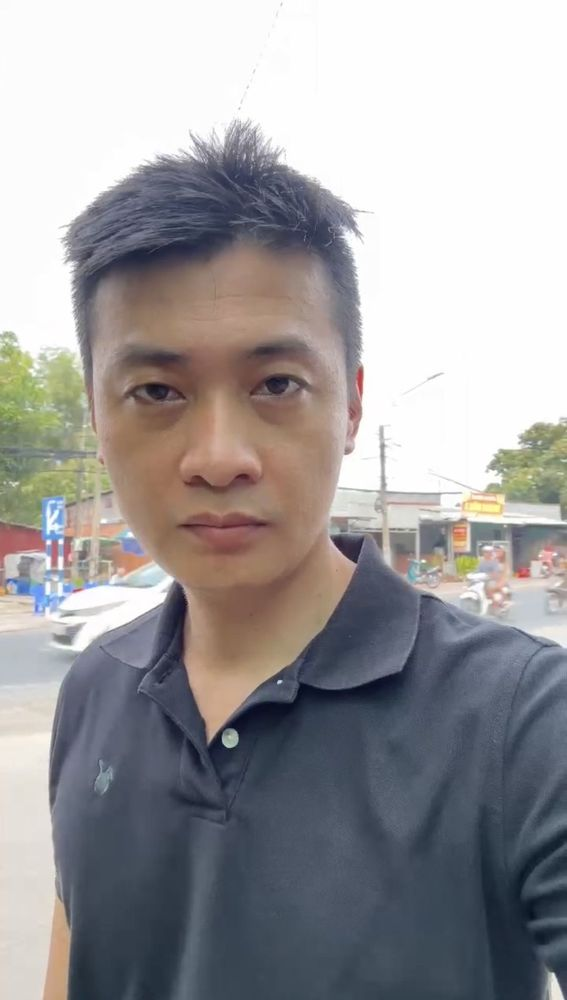
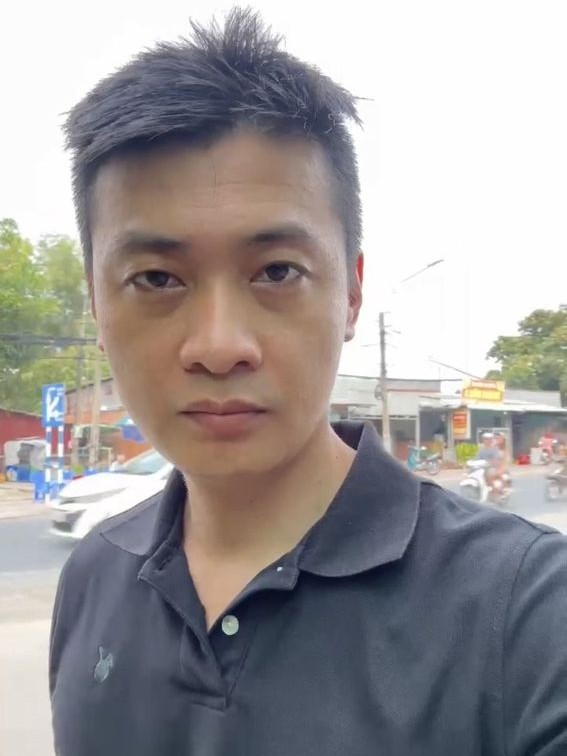
Add files via upload

diff --git a/index.html b/index.html
@@ -177,36 +177,36 @@
       </div>
     </div>
 
-    <p class="reveal" style="color:var(--text-2);margin-bottom:2rem;line-height:2;font-size:1rem;">
+    <p class="reveal" style="color:var(--text-2);margin-bottom:2rem;line-height:2;font-size:1rem;text-align:justify;">
       Có một giai đoạn trong cuộc đời tôi, tôi không muốn kể lại, nhưng tôi phải kể. Vì đây không phải câu chuyện của riêng tôi. Đây là câu chuyện của hàng nghìn người đàn ông đang đọc những dòng này.
     </p>
 
     <div class="card reveal" style="padding:1.75rem;margin-bottom:1.5rem;">
       <p style="font-size:0.7rem;font-weight:700;letter-spacing:0.18em;text-transform:uppercase;color:var(--amber);margin-bottom:0.75rem;">TRƯỚC</p>
-      <p style="color:var(--text-2);line-height:1.9;">Nhìn từ bên ngoài, tôi không có gì để than vãn. Công việc ổn định. Gia đình bình thường. Nhưng bên trong, có một thứ gì đó đang chết dần mỗi ngày. Tôi thức dậy mỗi sáng mà không biết mình sống vì điều gì. Lướt điện thoại 30 phút trước khi ra khỏi giường. Làm việc theo quán tính. Tối về nằm xuống và tự hỏi: <em style="color:var(--brown);">Hôm nay mình đã sống hay chỉ đang tồn tại?</em></p>
+      <p style="color:var(--text-2);line-height:1.9;text-align:justify;">Nhìn từ bên ngoài, tôi không có gì để than vãn. Công việc ổn định. Gia đình bình thường. Nhưng bên trong, có một thứ gì đó đang chết dần mỗi ngày. Tôi thức dậy mỗi sáng mà không biết mình sống vì điều gì. Lướt điện thoại 30 phút trước khi ra khỏi giường. Làm việc theo quán tính. Tối về nằm xuống và tự hỏi: <em style="color:var(--brown);">Hôm nay mình đã sống hay chỉ đang tồn tại?</em></p>
     </div>
 
     <div class="card reveal" style="padding:1.75rem;margin-bottom:1.5rem;">
       <p style="font-size:0.7rem;font-weight:700;letter-spacing:0.18em;text-transform:uppercase;color:var(--amber);margin-bottom:0.75rem;">ĐẤU TRANH</p>
-      <p style="color:var(--text-2);line-height:1.9;margin-bottom:1rem;">Rồi biến cố ập đến. Một khoản đầu tư thất bại, không phải vài triệu. Đủ để tôi mất ngủ suốt 6 tháng. Đủ để tôi nhìn vào gương và không nhận ra người đứng đó.</p>
-      <p style="color:var(--text-2);line-height:1.9;">Tôi đã làm đúng những gì ai cũng làm sau thất bại: Tìm cách quên. Ăn ít hơn. Ngủ ít hơn. Lướt mạng xã hội nhiều hơn. Và mỗi ngày trôi qua, tôi càng chìm sâu hơn vào vũng bùn của sự vô nghĩa. Đêm nào tôi cũng tự nhủ: <em style="color:var(--brown);">"Ngày mai mình sẽ thay đổi."</em> Nhưng ngày mai đến, tôi lại là người cũ, chỉ già hơn một ngày và tệ hơn vì mặc cảm tội lỗi.</p>
+      <p style="color:var(--text-2);line-height:1.9;text-align:justify;margin-bottom:1rem;">Rồi biến cố ập đến. Một khoản đầu tư thất bại, không phải vài triệu. Đủ để tôi mất ngủ suốt 6 tháng. Đủ để tôi nhìn vào gương và không nhận ra người đứng đó.</p>
+      <p style="color:var(--text-2);line-height:1.9;text-align:justify;">Tôi đã làm đúng những gì ai cũng làm sau thất bại: Tìm cách quên. Ăn ít hơn. Ngủ ít hơn. Lướt mạng xã hội nhiều hơn. Và mỗi ngày trôi qua, tôi càng chìm sâu hơn vào vũng bùn của sự vô nghĩa. Đêm nào tôi cũng tự nhủ: <em style="color:var(--brown);">"Ngày mai mình sẽ thay đổi."</em> Nhưng ngày mai đến, tôi lại là người cũ, chỉ già hơn một ngày và tệ hơn vì mặc cảm tội lỗi.</p>
     </div>
 
     <div class="card reveal" style="padding:1.75rem;margin-bottom:1.5rem;border-left:4px solid var(--rust);">
       <p style="font-size:0.7rem;font-weight:700;letter-spacing:0.18em;text-transform:uppercase;color:var(--amber);margin-bottom:0.75rem;">KHÁM PHÁ</p>
-      <p style="color:var(--text-2);line-height:1.9;margin-bottom:1.25rem;">Khoảnh khắc bước ngoặt không đến từ một cuốn sách hay một hội thảo. Nó đến vào lúc 2 giờ sáng, khi tôi ngồi một mình trong bóng tối và nhận ra một sự thật đơn giản đến đau lòng:</p>
+      <p style="color:var(--text-2);line-height:1.9;text-align:justify;margin-bottom:1.25rem;">Khoảnh khắc bước ngoặt không đến từ một cuốn sách hay một hội thảo. Nó đến vào lúc 2 giờ sáng, khi tôi ngồi một mình trong bóng tối và nhận ra một sự thật đơn giản đến đau lòng:</p>
       <p class="serif" style="font-size:1.1rem;font-style:italic;color:var(--brown);border-left:2px solid var(--amber);padding-left:1rem;line-height:1.7;">"Không ai đến cứu mình cả. Người duy nhất có thể kéo mình ra khỏi đây, đó chính là mình."</p>
-      <p style="color:var(--text-2);line-height:1.9;margin-top:1rem;">Tôi không bắt đầu bằng một kế hoạch hoành tráng. Tôi bắt đầu bằng thứ nhỏ nhất có thể: Ngủ đúng giờ. Dậy đúng giờ. Tập thể dục 20 phút mỗi ngày, chỉ vậy thôi. Nhưng điều kỳ lạ xảy ra, khi bạn giữ được một cam kết nhỏ với bản thân, bạn bắt đầu tin rằng mình có thể giữ được cam kết lớn hơn.</p>
+      <p style="color:var(--text-2);line-height:1.9;text-align:justify;margin-top:1rem;">Tôi không bắt đầu bằng một kế hoạch hoành tráng. Tôi bắt đầu bằng thứ nhỏ nhất có thể: Ngủ đúng giờ. Dậy đúng giờ. Tập thể dục 20 phút mỗi ngày, chỉ vậy thôi. Nhưng điều kỳ lạ xảy ra, khi bạn giữ được một cam kết nhỏ với bản thân, bạn bắt đầu tin rằng mình có thể giữ được cam kết lớn hơn.</p>
       <p style="font-weight:700;color:var(--brown);margin-top:1rem;">Kỷ luật không phải là nhà tù. Kỷ luật là thứ duy nhất có thể giải phóng bạn.</p>
     </div>
 
     <div class="card reveal" style="padding:1.75rem;margin-bottom:1.5rem;background:linear-gradient(135deg,#FFF8EE,#FFF3E0);">
       <p style="font-size:0.7rem;font-weight:700;letter-spacing:0.18em;text-transform:uppercase;color:var(--amber);margin-bottom:0.75rem;">SAU</p>
-      <p style="color:var(--text-2);line-height:1.9;margin-bottom:1rem;">90 ngày sau, tôi không phải người khác. Tôi vẫn là tôi, nhưng là phiên bản thức tỉnh của chính mình. Tôi có lại năng lượng để làm việc với sự tập trung. Tôi ngủ đủ giấc. Tôi nhìn vào gương và thấy một người đang đứng dậy chứ không phải ngã xuống.</p>
-      <p style="color:var(--text-2);line-height:1.9;">Và điều quan trọng hơn: Tôi biết mình muốn gì. Không phải giàu có tưởng tượng. Không phải thành công mơ hồ. Mà là sự tự do cụ thể: Tự do về thời gian, về tinh thần, về lựa chọn.</p>
+      <p style="color:var(--text-2);line-height:1.9;text-align:justify;margin-bottom:1rem;">90 ngày sau, tôi không phải người khác. Tôi vẫn là tôi, nhưng là phiên bản thức tỉnh của chính mình. Tôi có lại năng lượng để làm việc với sự tập trung. Tôi ngủ đủ giấc. Tôi nhìn vào gương và thấy một người đang đứng dậy chứ không phải ngã xuống.</p>
+      <p style="color:var(--text-2);line-height:1.9;text-align:justify;">Và điều quan trọng hơn: Tôi biết mình muốn gì. Không phải giàu có tưởng tượng. Không phải thành công mơ hồ. Mà là sự tự do cụ thể: Tự do về thời gian, về tinh thần, về lựa chọn.</p>
     </div>
 
-    <p class="reveal" style="color:var(--text-3);font-style:italic;border-left:3px solid var(--cream-3);padding-left:1.25rem;line-height:1.9;">Tôi tạo ra Kỷ Luật Bản Năng không phải vì tôi là chuyên gia. Mà vì tôi là người đã đi con đường này và tôi không muốn bạn phải mò mẫm một mình trong bóng tối như tôi từng làm. Con đường tồn tại. Và nó không cần bạn phải hoàn hảo để bước đi trên đó.</p>
+    <p class="reveal" style="color:var(--text-3);font-style:italic;border-left:3px solid var(--cream-3);padding-left:1.25rem;line-height:1.9;text-align:justify;">Tôi tạo ra Kỷ Luật Bản Năng không phải vì tôi là chuyên gia. Mà vì tôi là người đã đi con đường này và tôi không muốn bạn phải mò mẫm một mình trong bóng tối như tôi từng làm. Con đường tồn tại. Và nó không cần bạn phải hoàn hảo để bước đi trên đó.</p>
   </div>
 </section>
 
@@ -289,13 +289,13 @@
       <p style="font-size:0.78rem;font-weight:600;color:var(--text-3);text-align:center;margin-bottom:0.85rem;letter-spacing:0.08em;text-transform:uppercase;">Trước → Sau</p>
       <div style="display:grid;grid-template-columns:1fr 1fr;gap:1rem;">
         <div style="border-radius:12px;overflow:hidden;position:relative;">
-          <img loading="lazy" decoding="async" src="photo-before.jpg" alt="Trước · 2025 mất phương hướng" style="width:100%;aspect-ratio:3/4;object-fit:cover;object-position:center top;display:block;" />
+          <img loading="lazy" decoding="async" src="photo-before.jpg" alt="Trước · 2025 mất phương hướng" style="width:100%;aspect-ratio:3/4;object-fit:cover;object-position:center;display:block;" />
           <div style="position:absolute;bottom:0;left:0;right:0;background:linear-gradient(transparent,rgba(44,26,14,0.85));padding:0.75rem;text-align:center;">
             <span style="color:#fff;font-size:0.72rem;font-weight:700;letter-spacing:0.08em;">2025 · MẤT PHƯƠNG HƯỚNG</span>
           </div>
         </div>
         <div style="border-radius:12px;overflow:hidden;position:relative;border:2px solid var(--amber);">
-          <img loading="lazy" decoding="async" src="photo-after.jpg" alt="Sau · 2026 hành trình mới" style="width:100%;aspect-ratio:3/4;object-fit:cover;object-position:center top;display:block;" />
+          <img loading="lazy" decoding="async" src="photo-after.jpg" alt="Sau · 2026 hành trình mới" style="width:100%;aspect-ratio:3/4;object-fit:cover;object-position:center;display:block;" />
           <div style="position:absolute;bottom:0;left:0;right:0;background:linear-gradient(transparent,rgba(176,90,42,0.9));padding:0.75rem;text-align:center;">
             <span style="color:#fff;font-size:0.72rem;font-weight:700;letter-spacing:0.08em;">2026 · HÀNH TRÌNH MỚI ✓</span>
           </div>
@@ -564,7 +564,7 @@
     </div>
 
     <div class="reveal" style="background:rgba(196,123,42,0.1);border:1px solid rgba(196,123,42,0.3);border-radius:12px;padding:2rem;">
-      <p style="color:#D9C8B0;line-height:1.9;margin-bottom:1rem;">Và đây là điều mình muốn bạn hiểu: <strong style="color:#FAF6F0;">Bạn không lười. Bạn không yếu. Bạn chỉ đang thiếu ba thứ mà không ai dạy bạn:</strong></p>
+      <p style="color:#D9C8B0;line-height:1.9;text-align:justify;margin-bottom:1rem;">Và đây là điều mình muốn bạn hiểu: <strong style="color:#FAF6F0;">Bạn không lười. Bạn không yếu. Bạn chỉ đang thiếu ba thứ mà không ai dạy bạn:</strong></p>
       <ul style="list-style:none;display:flex;flex-direction:column;gap:0.75rem;">
         <li style="color:#C9B8A0;font-size:0.92rem;padding-left:1.25rem;position:relative;line-height:1.7;"><span style="position:absolute;left:0;color:var(--amber-l);">1.</span>Một hệ thống phù hợp với cách não và cơ thể bạn hoạt động · không phải công thức copy từ người khác</li>
         <li style="color:#C9B8A0;font-size:0.92rem;padding-left:1.25rem;position:relative;line-height:1.7;"><span style="position:absolute;left:0;color:var(--amber-l);">2.</span>Một lộ trình rõ ràng để bạn biết ngày mai mình cần làm gì, không phải chỉ "cố gắng nhiều hơn"</li>
